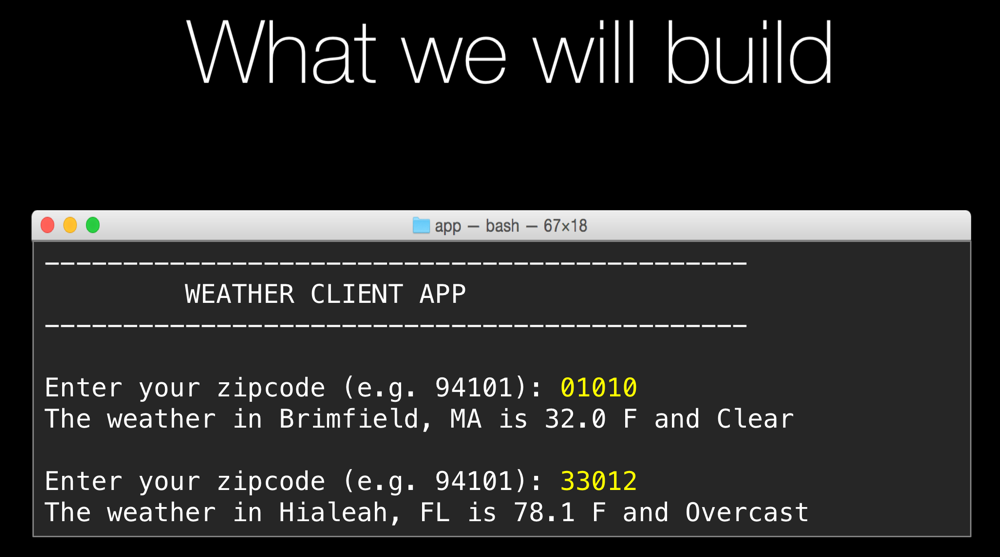
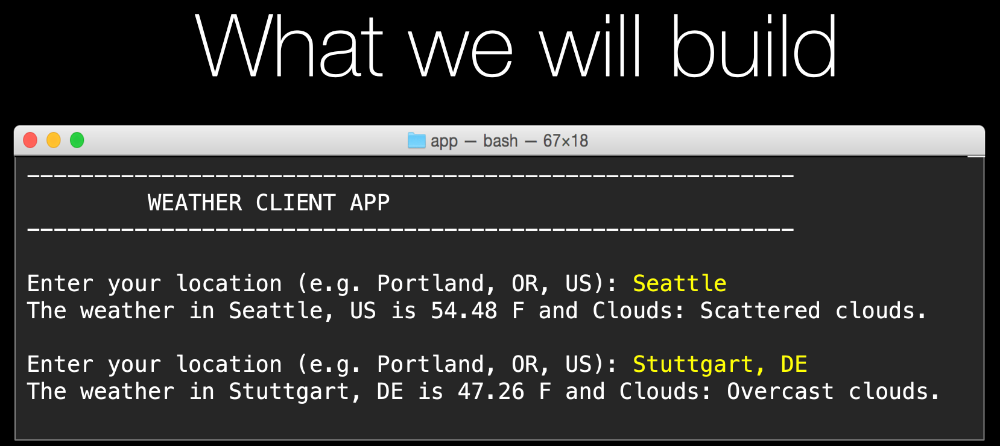
Update chapter 5 for new weather API version.

diff --git a/apps/05_weather_client/final/program.py b/apps/05_weather_client/final/program.py
@@ -1,92 +1,114 @@
-import requests
-import bs4
 import collections
+import requests
 
-WeatherReport = collections.namedtuple('WeatherReport',
-                                       'cond, temp, scale, loc')
+Location = collections.namedtuple('Location', 'city state country')
+Weather = collections.namedtuple('Weather', 'location units temp condition')
 
 
 def main():
-    # t = 1, 7, 'cat', [1,2,3]
-    # print(t)
-    # print(t[1])
-    #
-    # n1, n2, s, l = t
-    # print(n1, n2, s, l)
-    # return
+    show_header()
+    location_text = input("Where do you want the weather report (e.g. Portland, US)? ")
+    loc = convert_plaintext_location(location_text)
+    if not loc:
+        print(f"Could not find anything about {location_text}.")
+        return
 
-    print_the_header()
+    weather = call_weather_api(loc)
+    if not weather:
+        print(f"Could not get weather for {location_text} from the API.")
+        return
 
-    # Note: wunderground changed it's URL structure, zipcode no longer works.
-    # We need to pass state and city (sorry folks outside the US).
-    # You can update the URL for your country.
-    state = input('What US state do you want the weather for (e.g. OR)? ')
-    city = input('What city in {} (e.g. Portland)? ')
-
-    html = get_html_from_web(state, city)
-    report = get_weather_from_html(html)
-
-    print('The temp in {} is {} {} and {}.'.format(
-        report.loc,
-        report.temp,
-        report.scale,
-        report.cond
-    ))
+    report_weather(loc, weather)
 
 
-def print_the_header():
+def report_weather(loc, weather):
+    location_name = get_location_name(loc)
+    scale = get_scale(weather)
+    print(f'The weather in {location_name} is {weather.temp} {scale} and {weather.condition}.')
+
+
+def get_scale(weather):
+    if weather.units == 'imperial':
+        scale = "F"
+    else:
+        scale = "C"
+    return scale
+
+
+def get_location_name(location):
+    if not location.state:
+        return f'{location.city.capitalize()}, {location.country.upper()}'
+    else:
+        return f'{location.city.capitalize()}, {location.state.upper()}, {location.country.upper()}'
+
+
+def call_weather_api(loc):
+    # &state=OR
+    url = f'https://weather.talkpython.fm/api/weather?city={loc.city}&country={loc.country}&units=imperial'
+    if loc.state:
+        url += f"&state={loc.state}"
+
+    # print(f"Would call {url}")
+    resp = requests.get(url)
+    if resp.status_code in {400, 404, 500}:
+        # print(f"Error: {resp.text}.")
+        return None
+
+    data = resp.json()
+
+    return convert_api_to_weather(data, loc)
+
+
+def convert_api_to_weather(data, loc):
+    # 'weather': {'description': 'broken clouds', 'category': 'Clouds'}
+    # 'forecast': {'temp': 66.34,
+
+    temp = data.get('forecast').get('temp')
+    w = data.get('weather')
+    condition = f"{w.get('category')}: {w.get('description').capitalize()}"
+    weather = Weather(loc, data.get('units'), temp, condition)
+
+    return weather
+
+
+def convert_plaintext_location(location_text):
+    if not location_text or not location_text.strip():
+        return None
+
+    location_text = location_text.lower().strip()
+    parts = location_text.split(',')
+
+    city = ""
+    state = ""
+    country = 'us'
+    if len(parts) == 1:
+        city = parts[0].strip()
+    elif len(parts) == 2:
+        city = parts[0].strip()
+        country = parts[1].strip()
+    elif len(parts) == 3:
+        city = parts[0].strip()
+        state = parts[1].strip()
+        country = parts[2].strip()
+    else:
+        return None
+
+    # print(f"City={city}, State={state}, Country={country}")
+
+    # t = city, state, country
+    # t[0]
+    # t2 = Location(city, state, country)
+    # t2.city
+
+    return Location(city, state, country)
+    # return city, state, country
+
+
+def show_header():
     print('---------------------------------')
-    print('           WEATHER APP')
+    print('         WEATHER CLIENT')
     print('---------------------------------')
     print()
-
-
-def get_html_from_web(state, city):
-    # Note: wunderground changed it's URL structure, zipcode no longer works.
-    # We need to pass state and city (sorry folks outside the US).
-    # You can update the URL for your country.
-    url = 'https://www.wunderground.com/weather/us/{}/{}'.format(
-        state.lower().strip(), city.lower().strip())
-    response = requests.get(url)
-    # print(response.status_code)
-    # print(response.text[0:250])
-
-    return response.text
-
-
-def get_weather_from_html(html):
-    # cityCss = 'h1' # <-- Changed from video recording.
-    # weatherScaleCss = '.wu-unit-temperature .wu-label'
-    # weatherTempCss = '.wu-unit-temperature .wu-value'
-    # weatherConditionCss = '.condition-icon'
-
-    soup = bs4.BeautifulSoup(html, 'html.parser')
-
-    # Note: Due to the change in HTML at wunderground we need to cleanup
-    # the title a different way:
-    loc = soup.find('h1').get_text() \
-        .replace(' Weather Conditions', '') \
-        .replace('star_ratehome', '')
-
-    condition = soup.find(class_='condition-icon').get_text()
-    temp = soup.find(class_='wu-unit-temperature').find(class_='wu-value').get_text()
-    scale = soup.find(class_='wu-unit-temperature').find(class_='wu-label').get_text()
-
-    loc = cleanup_text(loc)
-    condition = cleanup_text(condition).lower()
-    temp = cleanup_text(temp)
-    scale = cleanup_text(scale)
-
-    report = WeatherReport(cond=condition, temp=temp, scale=scale, loc=loc)
-    return report
-
-
-def cleanup_text(text: str):
-    if not text:
-        return text
-
-    text = text.strip()
-    return text
 
 
 if __name__ == '__main__':

diff --git a/apps/05_weather_client/final/example_dict.py b/apps/05_weather_client/final/example_dict.py
@@ -1,0 +1,46 @@
+def main():
+    d = {
+        'city': 'Portland',
+        'state': 'ME',
+        'details': ['Cold', 'Snowy', 'Winter']
+    }
+
+    print(d.get('country', 'USA'))
+    d['country'] = 'AU'
+    print(d.get('country', 'USA'))
+    print(d)
+
+    w = {
+        "weather": {
+            "description": "scattered clouds",
+            "category": "Clouds"
+        },
+        "wind": {
+            "speed": 2.42,
+            "deg": 221
+        },
+        "units": "imperial",
+        "forecast": {
+            "temp": 64.08,
+            "feels_like": 63.86,
+            "pressure": 1023,
+            "humidity": 69,
+            "low": 60.01,
+            "high": 68
+        },
+        "location": {
+            "city": "Portland",
+            "country": "US",
+            "state": "OR"
+        },
+        "rate_limiting": {
+            "unique_lookups_remaining": 49,
+            "lookup_reset_window": "1 hour"
+        }
+    }
+
+    print(w.get('forecast').get('temp'))
+
+
+if __name__ == '__main__':
+    main()
